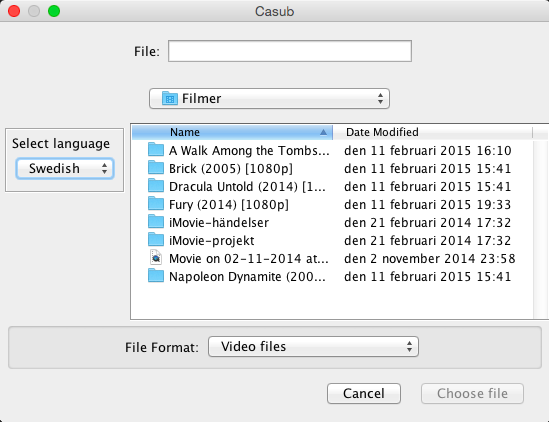
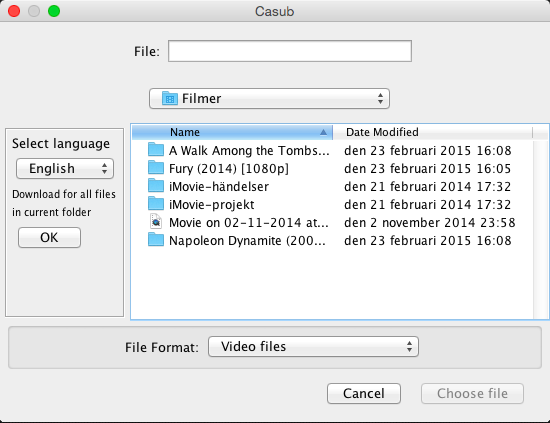
Adds new screenshots

diff --git a/index.htm b/index.htm
@@ -112,9 +112,11 @@ ga('send', 'pageview');
                         <li class="services-film"></li>
                         <!-- <li class="services-photo"></li> -->
                     </ul>
-                    <h3>Subtitles from OpenSubtitles.org</h3>
-                    <p><span id="casub">Casub</span> does all the work for you. It fetches
-                    perfectly matching subtitles for your video file - if they exist. </p>
+                    <div id="right">
+                        <h3>Subtitles from OpenSubtitles.org</h3>
+                        <p><span id="casub">Casub</span> does all the work for you. It fetches
+                        perfectly matching subtitles for your video file - if they exist. </p>
+                    </div>
                 </div>
                 <div class="bottom-divider"></div>
             </div>
@@ -135,8 +137,10 @@ ga('send', 'pageview');
                         <li class="services-film"></li>
                         <!-- <li class="services-photo">Photo</li> -->
                     </ul>
-                    <h3>Simply choose a video file</h3>
-                    <p>And <span id="casub">Casub</span> will fetch the subtitles for you in an instant.</p>
+                    <div id="right">
+                        <h3>Simply choose a video file</h3>
+                        <p>And <span id="casub">Casub</span> will fetch the subtitles for you in an instant.</p>
+                    </div>
                 </div>
                 <div class="bottom-divider"></div>
             </div>
@@ -150,15 +154,17 @@ ga('send', 'pageview');
                 <!--     <li><a href="#" class="linkedin">LinkedIn</a></li> -->
                 <!-- </ul> -->
                 <div class="content">
-                    <img src="images/ss3.png" />
+                    <img src="images/ss3.png"/>
                     <ul id="service-icons">
                         <!-- <li class="services-design">Design</li> -->
                         <!-- <li class="services-mobile">Mobile</li> -->
                         <li class="services-film"></li>
                         <!-- <li class="services-photo">Photo</li> -->
                     </ul>
-                    <h3>The result</h3>
-                    <p>The subtitles are added.</p>
+                    <div id="right">
+                        <h3>The result</h3>
+                        <p>The subtitles are added.</p>
+                    </div>
                 </div>
                 <div class="bottom-divider"></div>
             </div>
@@ -179,13 +185,62 @@ ga('send', 'pageview');
                         <li class="services-film"></li>
                         <!-- <li class="services-photo">Photo</li> -->
                     </ul>
-                    <h3>Done!</h3>
-                    <p>The subtitle file is correctly named and placed in the same folder.</p>
+                    <div id="right">
+                        <h3>Done!</h3>
+                        <p>The subtitle file is correctly named and placed in the same folder.</p>
+                    </div>
                 </div>
                 <div class="bottom-divider"></div>
             </div>
             <!--End About Section-->
 
+            <!--Begin About Section-->
+            <div id="about">
+                <!-- <ul id="top-social"> -->
+                <!-- 	<li><a href="#" class="facebook">Facebook</a></li> -->
+                <!--     <li><a href="#" class="twitter">Twitter</a></li> -->
+                <!--     <li><a href="#" class="linkedin">LinkedIn</a></li> -->
+                <!-- </ul> -->
+                <div class="content">
+                    <img src="images/ss5.png" />
+                    <ul id="service-icons">
+                        <!-- <li class="services-design">Design</li> -->
+                        <!-- <li class="services-mobile">Mobile</li> -->
+                        <li class="services-film"></li>
+                        <!-- <li class="services-photo">Photo</li> -->
+                    </ul>
+                    <div id="right">
+                        <h3>Alternatively</h3>
+                        <p>Download for all files in current folder.</p>
+                    </div>
+                </div>
+                <div class="bottom-divider"></div>
+            </div>
+            <!--End About Section-->
+
+            <!--Begin About Section-->
+            <div id="about">
+                <!-- <ul id="top-social"> -->
+                <!-- 	<li><a href="#" class="facebook">Facebook</a></li> -->
+                <!--     <li><a href="#" class="twitter">Twitter</a></li> -->
+                <!--     <li><a href="#" class="linkedin">LinkedIn</a></li> -->
+                <!-- </ul> -->
+                <div class="content">
+                    <img src="images/ss6.png" width="440px"/>
+                    <ul id="service-icons">
+                        <!-- <li class="services-design">Design</li> -->
+                        <!-- <li class="services-mobile">Mobile</li> -->
+                        <li class="services-film"></li>
+                        <!-- <li class="services-photo">Photo</li> -->
+                    </ul>
+                    <div id="right">
+                        <h3>Done!</h3>
+                        <p>The subtitle files are correctly named and placed in the same folder.</p>
+                    </div>
+                </div>
+                <div class="bottom-divider"></div>
+            </div>
+            <!--End About Section-->
             <!--Begin Experience Section-->
             <div id="experience">
                 <h2>How to use</h2>

diff --git a/styles.css b/styles.css
@@ -19,6 +19,7 @@ a:hover {color:#ffffff;}
 a img{border:0px;}
 i {color: white}
 
+
 #updatecontainer {
     margin-top: -10%;
     float: right;
@@ -159,7 +160,10 @@ i {color: white}
 #about .content #service-icons li.services-mobile{background:url(images/icon-2.png) no-repeat;}
 #about .content #service-icons li.services-film{background:url(images/icon-3.png) no-repeat;}
 #about .content #service-icons li.services-photo{background:url(images/icon-4.png) no-repeat;}
-
+#about .content #right {
+    margin-left: 550px;
+    width: 300px;
+} 
 
 /****************************************************/
 /* EXPERIENCE SECTION */
